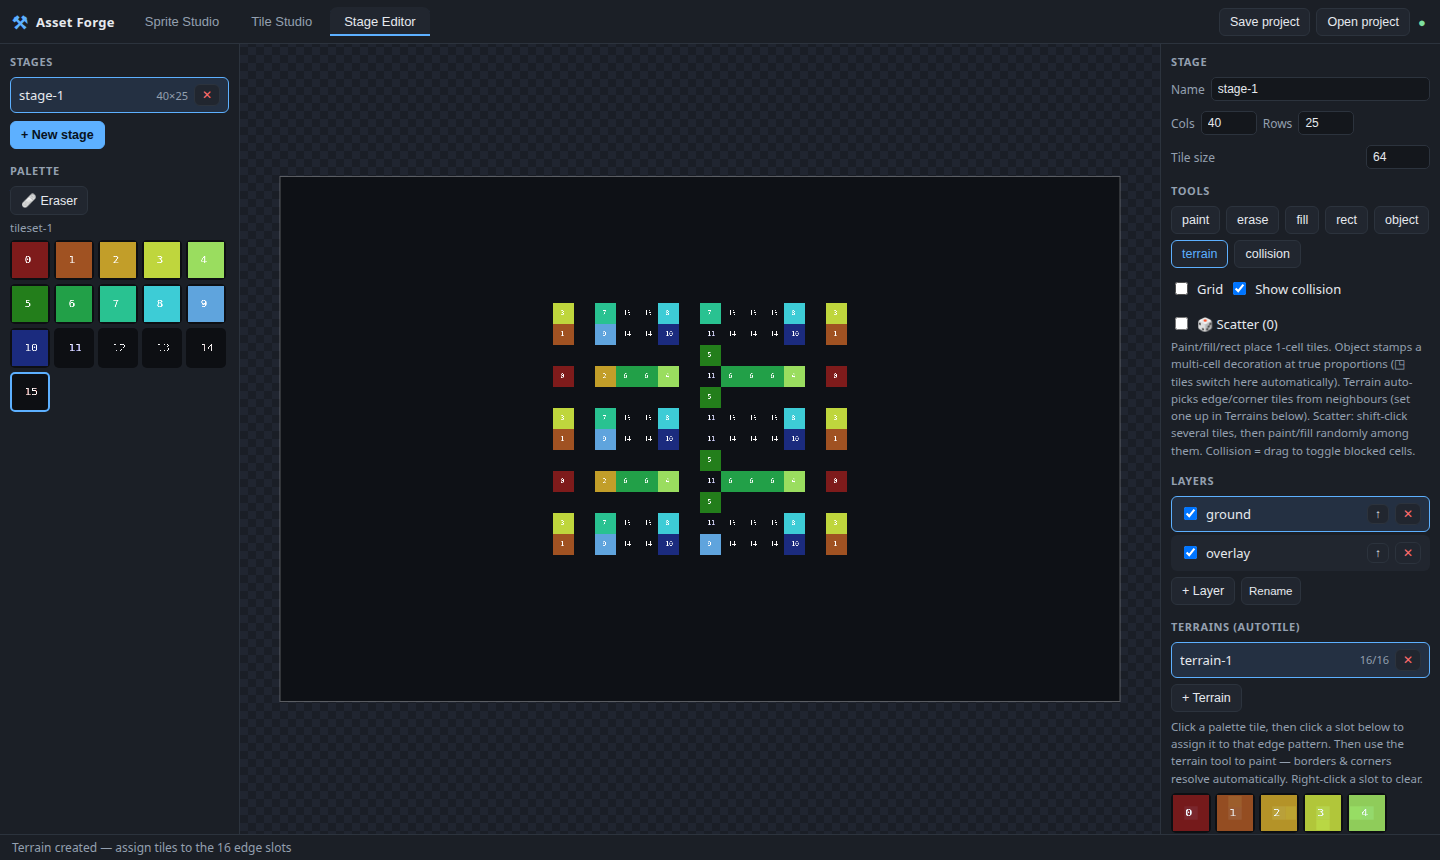
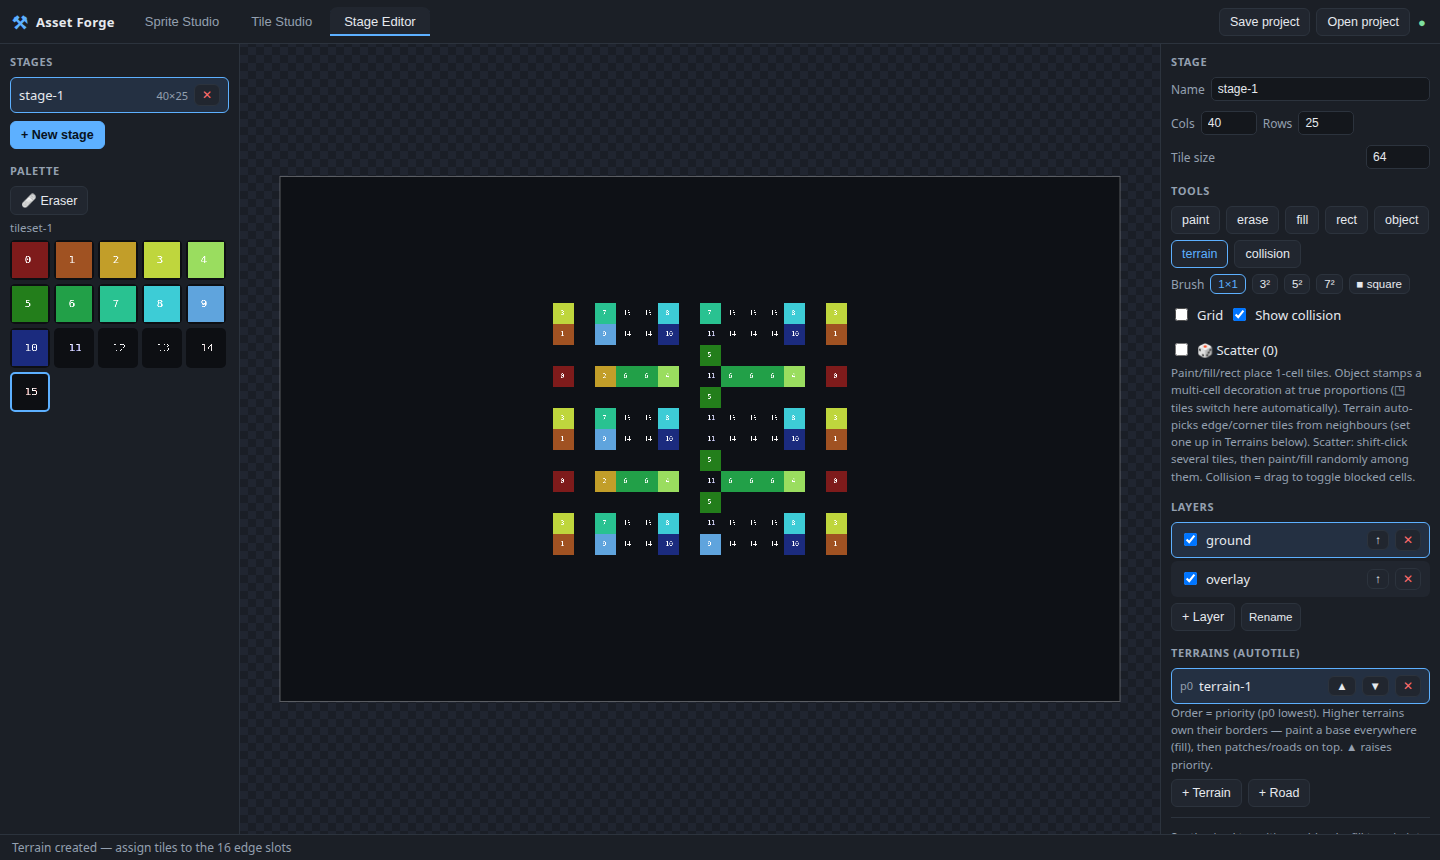
Stage editor: HoMM3-style terrain painting — brushes, priority, roads
Researched HoMM3 (terrain tool + brush sizes/area, auto-transitions with
priority, separate road/river line tools) and WC3 (sized circle/square brush),
and the multi-terrain priority autotiling technique (redblobgames / excalibur /
autotile-routing). Built the three pieces on top of our blob-47 engine,
discrete-tile model:

A. Brush size (1/3²/5²/7²) + shape (square/round) for paint/erase/terrain/
   collision, with a hover footprint preview and batched terrain re-resolve.
B. Priority terrains: resolution is now rank-aware — a terrain only draws its
   edge toward strictly-lower-priority neighbours (higher terrains own borders,
   à la HoMM3). Terrains list reorderable (▲/▼); OOB still treated as filled.
   Verified: high patch draws full edges, surrounding low terrain stays plain.
C. Roads: new `path` terrain kind — same 4-bit connection mask (straight/corner/
   T/cross), connects only to itself, caps at map edge, painted on an overlay.
   "+ Road" + the existing 16-slot glyph template (glyphs read as road segments).
   Verified: L-shape resolves to the correct corner tile.

Engine refactor keeps edge16/blob47 backward-compatible (single-terrain rank);
edge16 autotile test, path/priority unit tests, and smoke all green. Capture
harnesses + screenshots (brush stroke) in tools/ and docs/shots.

Changed region(s): [[0.8125, 0.3023, 1.0, 0.9674], [0.9375, 0.3023, 0.9688, 0.3326]]

diff --git a/src/stage/stage-editor.ts b/src/stage/stage-editor.ts
@@ -33,6 +33,8 @@ interface Local {
   refMeta: Map<string, RefMeta>;
   selectedObjectId: string | null;
   activeTerrainId: string | null;
+  brushRadius: number; // 0 = 1 cell, 1 = 3x3, 2 = 5x5 …
+  brushShape: "square" | "circle";
   transFill: string | null;
   transBase: string | null;
   transBand: number;
@@ -60,6 +62,8 @@ export function mountStageEditor(root: HTMLElement): Editor {
     refMeta: new Map(),
     selectedObjectId: null,
     activeTerrainId: null,
+    brushRadius: 0,
+    brushShape: "square",
     transFill: null,
     transBase: null,
     transBand: 10,
@@ -102,6 +106,22 @@ export function mountStageEditor(root: HTMLElement): Editor {
     return { x, y };
   }
 
+  /** Cells covered by the brush centred on (cx,cy), clamped to the grid. */
+  function brushCells(d: StageDoc, cx: number, cy: number): Array<{ x: number; y: number }> {
+    const r = L.brushRadius;
+    if (r <= 0) return [{ x: cx, y: cy }];
+    const cells: Array<{ x: number; y: number }> = [];
+    const rr = (r + 0.35) * (r + 0.35);
+    for (let dy = -r; dy <= r; dy++) {
+      for (let dx = -r; dx <= r; dx++) {
+        if (L.brushShape === "circle" && dx * dx + dy * dy > rr) continue;
+        const x = cx + dx, y = cy + dy;
+        if (x >= 0 && y >= 0 && x < d.cols && y < d.rows) cells.push({ x, y });
+      }
+    }
+    return cells;
+  }
+
   function onPaint(wx: number, wy: number, isDown: boolean): void {
     const d = doc();
     if (!d) return;
@@ -124,28 +144,31 @@ export function mountStageEditor(root: HTMLElement): Editor {
     }
     if (L.tool === "collision") {
       if (isDown) L.collisionPaintValue = !d.collision[c.y][c.x];
-      mutate(() => (d.collision[c.y][c.x] = L.collisionPaintValue));
+      mutate(() => { for (const p of brushCells(d, c.x, c.y)) d.collision[p.y][p.x] = L.collisionPaintValue; });
       vp.render();
       return;
     }
     if (L.tool === "terrain") {
       if (!layer || !L.activeTerrainId) { if (isDown) setStatus("Pick or create a terrain first"); return; }
       ensureTerrainGrid(layer, d);
-      if (layer.terrain![c.y][c.x] !== L.activeTerrainId) {
-        mutate(() => { layer.terrain![c.y][c.x] = L.activeTerrainId; });
-        resolveAround(d, layer, c.x, c.y);
-        vp.render();
-      }
+      const cells = brushCells(d, c.x, c.y);
+      let changed = false;
+      mutate(() => { for (const p of cells) if (layer.terrain![p.y][p.x] !== L.activeTerrainId) { layer.terrain![p.y][p.x] = L.activeTerrainId; changed = true; } });
+      if (changed) { resolveSet(d, layer, cells); vp.render(); }
       return;
     }
     if (L.tool === "fill") {
       if (isDown && layer) floodFill(layer, c.x, c.y);
       return;
     }
-    // paint / erase (drag-and-drop placement)
+    // paint / erase (drag-and-drop placement), brush-aware
     if (!layer) return;
-    const ref = L.tool === "erase" ? null : pickRef();
-    if (layer.data[c.y][c.x] !== ref) mutate(() => (layer.data[c.y][c.x] = ref));
+    mutate(() => {
+      for (const p of brushCells(d, c.x, c.y)) {
+        const ref = L.tool === "erase" ? null : pickRef();
+        layer.data[p.y][p.x] = ref;
+      }
+    });
     vp.render();
   }
 
@@ -206,21 +229,35 @@ export function mountStageEditor(root: HTMLElement): Editor {
     }
   }
 
-  /** Re-resolve a cell and its 8 neighbours from terrain membership, writing the
-   * resolved autotile into the visible tile layer. */
-  function resolveAround(d: StageDoc, layer: StageLayer, cx: number, cy: number): void {
+  /** Re-resolve a set of painted cells plus their 8-neighbours from terrain
+   * membership (one mutate), writing resolved autotiles into the tile layer. */
+  /** Priority rank of a terrain id by its order in the project list (higher
+   * index = higher priority = owns boundaries / drawn on top). */
+  function terrainRank(): (id: string | null) => number {
+    const order = new Map(getProject().terrains.map((t, i) => [t.id, i]));
+    return (id) => (id && order.has(id) ? order.get(id)! : -Infinity);
+  }
+
+  function resolveSet(d: StageDoc, layer: StageLayer, cells: Array<{ x: number; y: number }>): void {
     const terrains = getProject().terrains;
+    const rank = terrainRank();
+    const seen = new Set<number>();
     mutate(() => {
-      for (let dy = -1; dy <= 1; dy++) {
-        for (let dx = -1; dx <= 1; dx++) {
-          const x = cx + dx, y = cy + dy;
-          if (x < 0 || y < 0 || x >= d.cols || y >= d.rows) continue;
-          const tid = layer.terrain?.[y]?.[x];
-          if (!tid) continue;
-          const terrain = terrains.find((t) => t.id === tid);
-          if (!terrain) continue;
-          const ref = resolveCell(terrain, layer.terrain!, x, y, d.cols, d.rows);
-          if (ref) layer.data[y][x] = ref;
+      for (const cell of cells) {
+        for (let dy = -1; dy <= 1; dy++) {
+          for (let dx = -1; dx <= 1; dx++) {
+            const x = cell.x + dx, y = cell.y + dy;
+            if (x < 0 || y < 0 || x >= d.cols || y >= d.rows) continue;
+            const key = y * d.cols + x;
+            if (seen.has(key)) continue;
+            seen.add(key);
+            const tid = layer.terrain?.[y]?.[x];
+            if (!tid) continue;
+            const terrain = terrains.find((t) => t.id === tid);
+            if (!terrain) continue;
+            const ref = resolveCell(terrain, layer.terrain!, x, y, d.cols, d.rows, rank);
+            if (ref) layer.data[y][x] = ref;
+          }
         }
       }
     });
@@ -229,6 +266,7 @@ export function mountStageEditor(root: HTMLElement): Editor {
   /** Re-resolve every terrain cell on a layer (after a role assignment changes). */
   function reflowTerrain(d: StageDoc): void {
     const terrains = getProject().terrains;
+    const rank = terrainRank();
     mutate(() => {
       for (const layer of d.layers) {
         if (!layer.terrain) continue;
@@ -238,7 +276,7 @@ export function mountStageEditor(root: HTMLElement): Editor {
             if (!tid) continue;
             const terrain = terrains.find((t) => t.id === tid);
             if (!terrain) continue;
-            const ref = resolveCell(terrain, layer.terrain, x, y, d.cols, d.rows);
+            const ref = resolveCell(terrain, layer.terrain, x, y, d.cols, d.rows, rank);
             if (ref) layer.data[y][x] = ref;
           }
       }
@@ -348,9 +386,14 @@ export function mountStageEditor(root: HTMLElement): Editor {
 
     // hover
     if (L.hover && L.hover.x >= 0 && L.hover.y >= 0 && L.hover.x < d.cols && L.hover.y < d.rows) {
+      // Show the brush footprint for area tools; a single cell otherwise.
+      const brushTools = L.tool === "paint" || L.tool === "erase" || L.tool === "terrain" || L.tool === "collision";
+      const cells = brushTools ? brushCells(d, L.hover.x, L.hover.y) : [{ x: L.hover.x, y: L.hover.y }];
+      g.fillStyle = "rgba(255,207,107,0.18)";
+      for (const p of cells) g.fillRect(p.x * ts, p.y * ts, ts, ts);
       g.strokeStyle = "#ffcf6b";
       g.lineWidth = 2 / vp.scale;
-      g.strokeRect(L.hover.x * ts, L.hover.y * ts, ts, ts);
+      for (const p of cells) g.strokeRect(p.x * ts, p.y * ts, ts, ts);
     }
     // border
     g.strokeStyle = "rgba(255,255,255,0.3)";
@@ -478,14 +521,21 @@ export function mountStageEditor(root: HTMLElement): Editor {
     const project = getProject();
     const sec = el("div.section", {}, el("h3", {}, "Terrains (autotile)"));
     const list = el("div.list");
-    for (const t of project.terrains) {
+    // Listed low→high priority (higher = drawn on top, owns boundaries).
+    project.terrains.forEach((t, i) => {
       list.append(el("div.list-item" + (t.id === L.activeTerrainId ? ".active" : ""),
         { onclick: () => { L.activeTerrainId = t.id; L.tool = "terrain"; renderInspector(); } },
+        el("span.meta", {}, `p${i}`),
         el("div.name", {}, t.name),
-        el("span.meta", {}, `${Object.keys(t.roles).length}/16`),
+        button("▲", (e: Event) => { e.stopPropagation(); moveTerrain(i, +1); }, "sm"),
+        button("▼", (e: Event) => { e.stopPropagation(); moveTerrain(i, -1); }, "sm"),
         button("✕", (e: Event) => { e.stopPropagation(); mutate(() => (project.terrains = project.terrains.filter((x) => x.id !== t.id))); if (L.activeTerrainId === t.id) L.activeTerrainId = null; refreshCanvasInspector(); }, "sm danger")));
-    }
-    sec.append(list, el("div.btn-row", { style: { marginTop: "6px" } }, button("+ Terrain", () => newTerrain())));
+    });
+    sec.append(list,
+      el("div.hint", {}, "Order = priority (p0 lowest). Higher terrains own their borders — paint a base everywhere (fill), then patches/roads on top. ▲ raises priority."),
+      el("div.btn-row", { style: { marginTop: "6px" } },
+        button("+ Terrain", () => newTerrain("edge16")),
+        button("+ Road", () => newTerrain("path"))));
 
     // Synthesized transitions: blend one fill terrain into another (for sheets
     // with no dedicated edge/corner art). Generates a 16-tile transition set.
@@ -513,9 +563,11 @@ export function mountStageEditor(root: HTMLElement): Editor {
       sec.append(el("div.hint", { style: { margin: "6px 0" } },
         `Auto-built terrain (inner corners): ${Object.keys(terrain.roles).length} configurations from the sheet. Paint with the terrain tool. Re-run auto-build to rebuild.`));
     }
-    if (terrain && terrain.kind === "edge16") {
+    if (terrain && (terrain.kind === "edge16" || terrain.kind === "path")) {
       sec.append(el("div.hint", { style: { margin: "6px 0" } },
-        "Click a palette tile, then click a slot below to assign it to that edge pattern. Then use the terrain tool to paint — borders & corners resolve automatically. Right-click a slot to clear."));
+        terrain.kind === "path"
+          ? "Assign road tiles to the connection slots (the glyph shows which sides connect: straights, corners, T-junctions, cross). Paint with the terrain tool on an overlay layer; junctions resolve automatically. Right-click a slot to clear."
+          : "Click a palette tile, then click a slot below to assign it to that edge pattern. Then use the terrain tool to paint — borders & corners resolve automatically. Right-click a slot to clear."));
       const grid = el("div.palette");
       for (const slot of EDGE16_SLOTS) {
         const cell = el("div.swatch", {
@@ -540,15 +592,28 @@ export function mountStageEditor(root: HTMLElement): Editor {
     return sec;
   }
 
-  function newTerrain(): void {
+  function moveTerrain(i: number, dir: number): void {
+    const terrains = getProject().terrains;
+    const j = i + dir;
+    if (j < 0 || j >= terrains.length) return;
+    mutate(() => { const [m] = terrains.splice(i, 1); terrains.splice(j, 0, m); });
+    const d = doc();
+    if (d) reflowTerrain(d); // priority changed → re-resolve borders
+    renderInspector();
+  }
+
+  function newTerrain(kind: "edge16" | "path"): void {
     const project = getProject();
     const tilesetId = (L.activeRef && L.activeRef.split("/")[0]) || project.tilesets[0]?.id;
     if (!tilesetId) { setStatus("Create a tileset first"); return; }
-    const t: Terrain = { id: uid("terr"), name: `terrain-${project.terrains.length + 1}`, tilesetId, kind: "edge16", roles: {} };
+    const label = kind === "path" ? "road" : "terrain";
+    const t: Terrain = { id: uid("terr"), name: `${label}-${project.terrains.length + 1}`, tilesetId, kind, roles: {} };
     mutate(() => project.terrains.push(t));
     L.activeTerrainId = t.id;
     L.tool = "terrain";
-    setStatus("Terrain created — assign tiles to the 16 edge slots");
+    setStatus(kind === "path"
+      ? "Road created — assign road tiles to the 16 connection slots (straights, corners, T, cross), then paint on an overlay layer"
+      : "Terrain created — assign tiles to the 16 edge slots");
     refreshCanvasInspector();
   }
 
@@ -690,6 +755,10 @@ export function mountStageEditor(root: HTMLElement): Editor {
       el("div.btn-row", {},
         ...(["paint", "erase", "fill", "rect", "object", "terrain", "collision"] as Tool[]).map((t) =>
           button(t, () => { L.tool = t; renderInspector(); }, L.tool === t ? "active" : ""))),
+      el("div.btn-row", { style: { marginTop: "6px", alignItems: "center" } },
+        el("span.field-label", {}, "Brush"),
+        ...[0, 1, 2, 3].map((r) => button(r === 0 ? "1×1" : `${r * 2 + 1}²`, () => { L.brushRadius = r; renderInspector(); }, L.brushRadius === r ? "active sm" : "sm")),
+        button(L.brushShape === "circle" ? "● round" : "■ square", () => { L.brushShape = L.brushShape === "circle" ? "square" : "circle"; renderInspector(); }, "sm")),
       el("div.btn-row", { style: { marginTop: "6px" } },
         checkbox("Grid", L.showGrid, (b) => { L.showGrid = b; vp.render(); }),
         checkbox("Show collision", L.showCollision, (b) => { L.showCollision = b; vp.render(); }),

diff --git a/src/stage/autotile.ts b/src/stage/autotile.ts
@@ -15,17 +15,25 @@ export const NE = 16, SE = 32, SW = 64, NW = 128;
 /** A grid of terrainId|null. */
 export type TerrainGrid = (string | null)[][];
 
-function same(grid: TerrainGrid, x: number, y: number, id: string, cols: number, rows: number): boolean {
-  if (x < 0 || y < 0 || x >= cols || y >= rows) return true; // OOB = same (no border at map edge)
-  return grid[y][x] === id;
+/** Priority of a terrain id (higher = drawn on top / owns boundaries). Empty or
+ * unknown cells rank -Infinity. */
+export type RankFn = (id: string | null) => number;
+
+/** Whether the neighbour at (x,y) counts as "filled" for a cell of `myRank`:
+ * true when it's same-or-higher priority (so a terrain only draws an edge toward
+ * strictly-lower / empty neighbours — the HoMM3 priority rule). OOB = filled, so
+ * the map border doesn't get a transition edge. */
+function filled(grid: TerrainGrid, x: number, y: number, myRank: number, rank: RankFn, cols: number, rows: number): boolean {
+  if (x < 0 || y < 0 || x >= cols || y >= rows) return true;
+  return rank(grid[y][x]) >= myRank;
 }
 
-export function edgeMask(grid: TerrainGrid, x: number, y: number, id: string, cols: number, rows: number): number {
+export function edgeMask(grid: TerrainGrid, x: number, y: number, myRank: number, rank: RankFn, cols: number, rows: number): number {
   let m = 0;
-  if (same(grid, x, y - 1, id, cols, rows)) m |= N;
-  if (same(grid, x + 1, y, id, cols, rows)) m |= E;
-  if (same(grid, x, y + 1, id, cols, rows)) m |= S;
-  if (same(grid, x - 1, y, id, cols, rows)) m |= W;
+  if (filled(grid, x, y - 1, myRank, rank, cols, rows)) m |= N;
+  if (filled(grid, x + 1, y, myRank, rank, cols, rows)) m |= E;
+  if (filled(grid, x, y + 1, myRank, rank, cols, rows)) m |= S;
+  if (filled(grid, x - 1, y, myRank, rank, cols, rows)) m |= W;
   return m;
 }
 
@@ -46,29 +54,47 @@ export function blobKeyFromBits(
   return k;
 }
 
-export function blobKey(grid: TerrainGrid, x: number, y: number, id: string, cols: number, rows: number): number {
-  const sm = (dx: number, dy: number): boolean => same(grid, x + dx, y + dy, id, cols, rows);
-  return blobKeyFromBits(sm(0, -1), sm(1, 0), sm(0, 1), sm(-1, 0), sm(1, -1), sm(1, 1), sm(-1, 1), sm(-1, -1));
+export function blobKey(grid: TerrainGrid, x: number, y: number, myRank: number, rank: RankFn, cols: number, rows: number): number {
+  const f = (dx: number, dy: number): boolean => filled(grid, x + dx, y + dy, myRank, rank, cols, rows);
+  return blobKeyFromBits(f(0, -1), f(1, 0), f(0, 1), f(-1, 0), f(1, -1), f(1, 1), f(-1, 1), f(-1, -1));
 }
 
-/** Resolve the tile ref for cell (x,y) given the terrain membership grid.
- * Returns null if the cell isn't this terrain or no role is assigned. */
+/** Resolve the tile ref for cell (x,y) given the terrain membership grid and a
+ * priority `rank` function. Returns null if the cell isn't this terrain or no
+ * role is assigned. */
 export function resolveCell(
   terrain: Terrain,
   grid: TerrainGrid,
   x: number,
   y: number,
   cols: number,
-  rows: number
+  rows: number,
+  rank: RankFn
 ): string | null {
   if (grid[y]?.[x] !== terrain.id) return null;
+  if (terrain.kind === "path") {
+    // Linear road/river: connects only to the same path id; OOB = not connected
+    // (so it caps at the map edge). Same 4-bit mask as edge16.
+    const con = (dx: number, dy: number): boolean => {
+      const nx = x + dx, ny = y + dy;
+      if (nx < 0 || ny < 0 || nx >= cols || ny >= rows) return false;
+      return grid[ny][nx] === terrain.id;
+    };
+    let m = 0;
+    if (con(0, -1)) m |= N;
+    if (con(1, 0)) m |= E;
+    if (con(0, 1)) m |= S;
+    if (con(-1, 0)) m |= W;
+    return terrain.roles[m] ?? terrain.roles[15] ?? Object.values(terrain.roles)[0] ?? null;
+  }
+  const myRank = rank(terrain.id);
   if (terrain.kind === "edge16") {
-    const mask = edgeMask(grid, x, y, terrain.id, cols, rows);
+    const mask = edgeMask(grid, x, y, myRank, rank, cols, rows);
     return terrain.roles[mask] ?? terrain.roles[15] ?? Object.values(terrain.roles)[0] ?? null;
   }
   // blob47: try the full key, then the same key with corners stripped (degrade
   // to the edge-only case), then the fully-surrounded centre, then anything.
-  const key = blobKey(grid, x, y, terrain.id, cols, rows);
+  const key = blobKey(grid, x, y, myRank, rank, cols, rows);
   const ortho = key & 15;
   return (
     terrain.roles[key] ??

diff --git a/src/core/types.ts b/src/core/types.ts
@@ -123,12 +123,14 @@ export interface TilesetDoc {
  * kind "edge16": 4-bit mask of orthogonal neighbours that share the terrain —
  *   bit 0 = N, 1 = E, 2 = S, 3 = W (16 tiles: edges + outer corners).
  * kind "blob47": 8-neighbour mask reduced to 47 cases (adds inner corners).
+ * kind "path": a linear road/river — same 4-bit mask, but connects only to the
+ *   same path id (no priority) and ends at the map edge; rendered as an overlay.
  */
 export interface Terrain {
   id: string;
   name: string;
   tilesetId: string;
-  kind: "edge16" | "blob47";
+  kind: "edge16" | "blob47" | "path";
   /** maskValue -> tile ref. */
   roles: Record<number, string>;
 }

diff --git a/README.md b/README.md
@@ -173,7 +173,10 @@ Compose a stage by painting tiles from your tilesets, then define collisions.
 1. **+ New stage** — set **Cols/Rows** and **Tile size**. (Build tilesets in
    Tile Studio first; they populate the palette.)
 2. **Paint terrain** — pick a 1-cell tile from the **palette** and `paint`,
-   `fill` (bucket), or `rect` it onto the ground layer.
+   `fill` (bucket), or `rect` it onto the ground layer. Set a **brush size**
+   (1×1 / 3² / 5² / 7²) and **shape** (square/round) to sweep broad areas at
+   once (HoMM3/WC3-style); the hover shows the brush footprint. Brush applies to
+   paint, erase, terrain, and collision tools.
 3. **Scatter for natural variation** — `🎲 Scatter`: **shift-click** several
    terrain tiles (grass variants, grass+dirt, …) to build a scatter set, enable
    Scatter, then paint/fill — each cell gets a random pick, so terrain doesn't
@@ -204,6 +207,15 @@ Compose a stage by painting tiles from your tilesets, then define collisions.
      **Set base**, then **✨ Generate transition**. It blends fill over base with
      an ordered (Bayer) dither and builds a ready-to-paint 16-tile terrain — so
      grass softly blends into dirt with no hand-drawn transition tiles.
+   - **Priority (multi-terrain borders)** — the Terrains list is ordered by
+     **priority** (▲/▼; p0 lowest). A terrain only draws its edge toward
+     *lower*-priority neighbours, so higher terrains own their borders — exactly
+     like HoMM3. Paint a base everywhere (fill), then patches of higher terrains
+     on top and they border each other correctly.
+   - **Roads / paths** — **+ Road** makes a linear (`path`) terrain: assign road
+     tiles to the connection slots (straights, corners, T-junctions, cross — the
+     slot glyphs show the shape), then paint on an **overlay layer** and
+     junctions resolve automatically as you draw, like HoMM3's road tool.
 6. **Layers** — multiple tile layers (e.g. `ground`, `overlay`); reorder,
    rename, hide. Painting affects the active layer.
 6. **Collisions** — **Recompute from tiles + objects** seeds the grid from each
